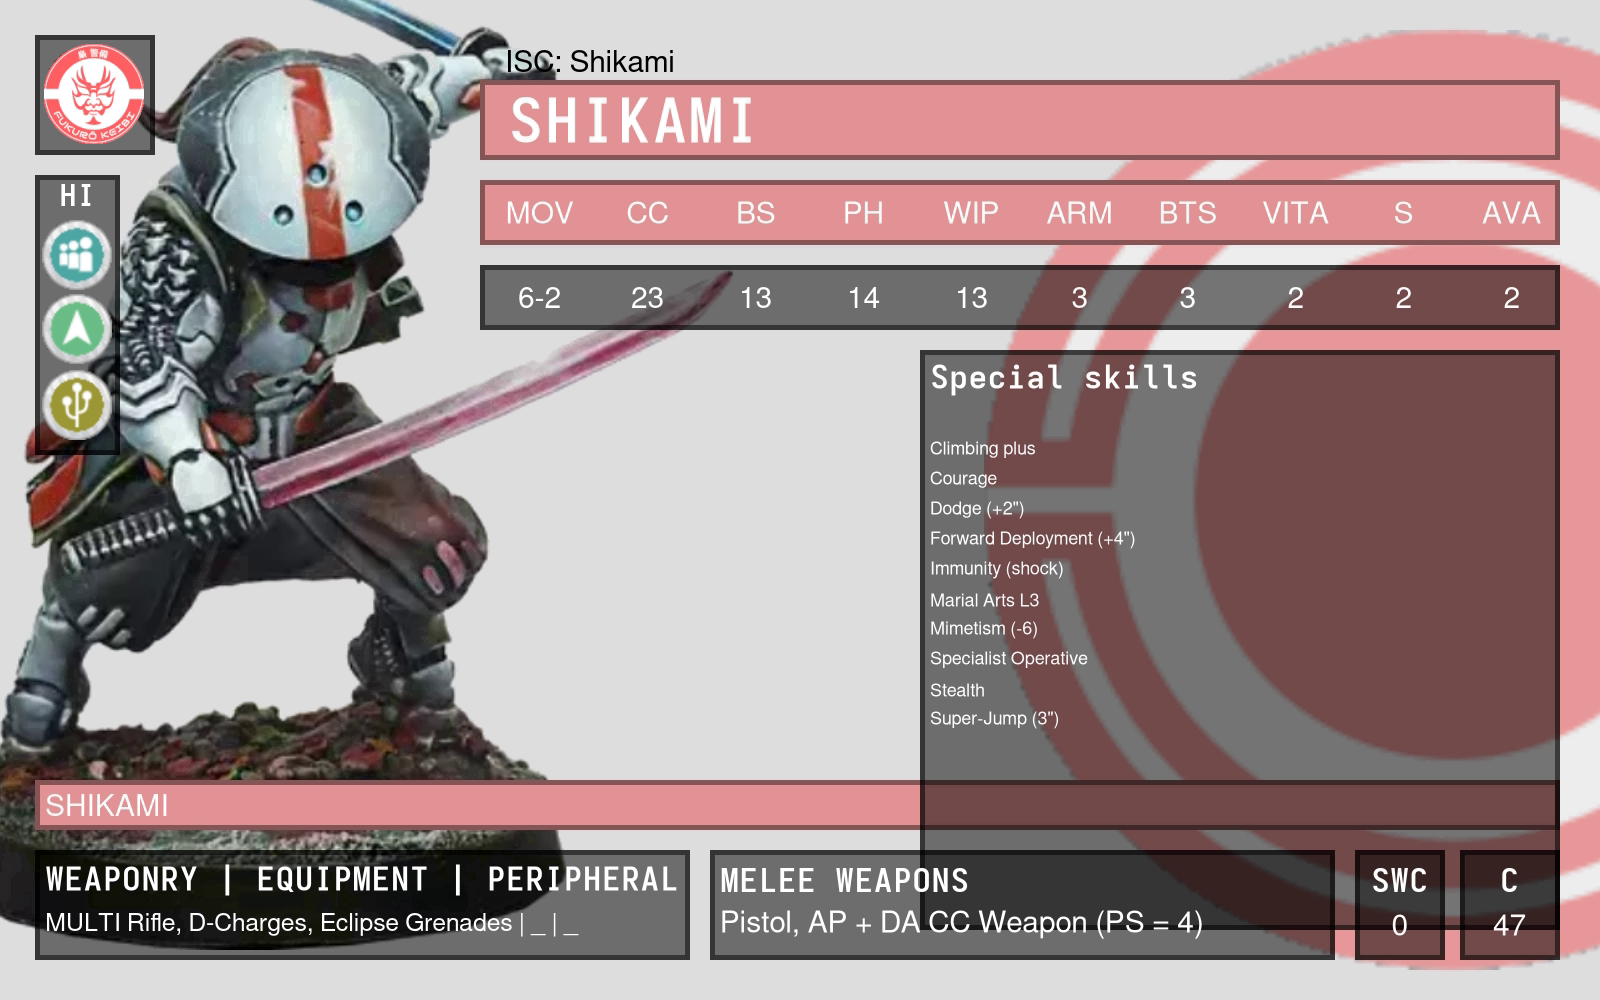
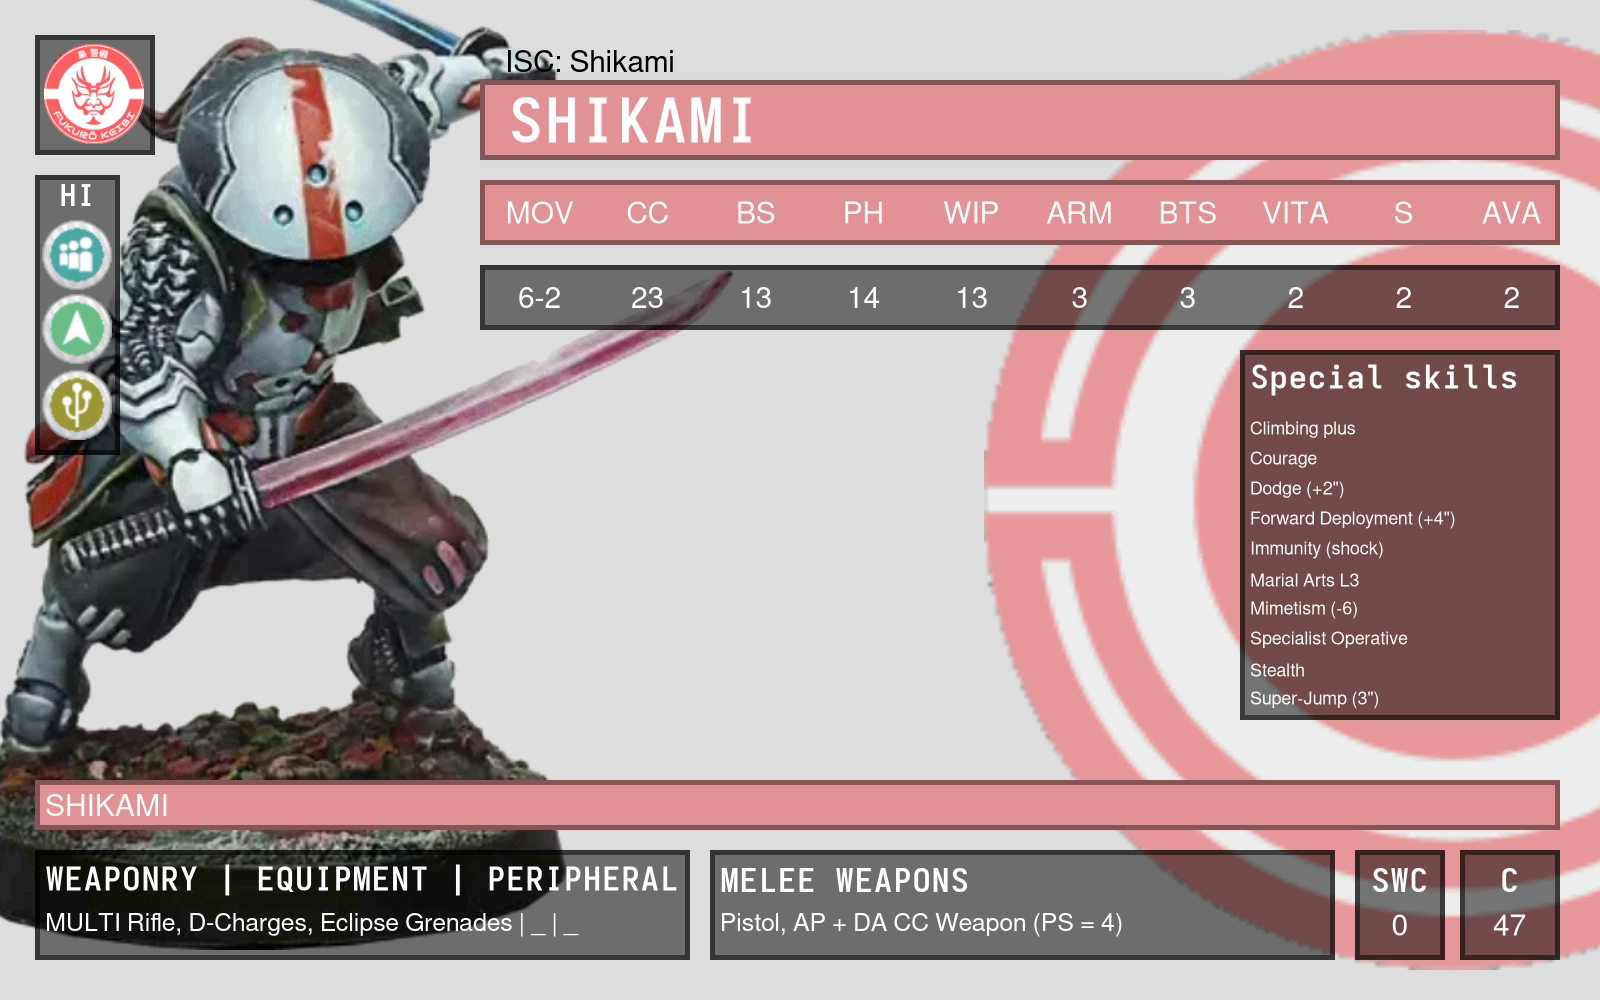
add to readme, tweak and (re)generate

Changed region(s): [[0.4375, 0.341, 1.0, 0.93]]

diff --git a/README.md b/README.md
@@ -3,7 +3,7 @@
 | Inspiration                                           | Mine                           |
 |-------------------------------------------------------|--------------------------------|
 | ![](assets/4fb8339e-3d5d-4f70-9e3e-3f76bb449dd4.jpeg) | ![](assets/panoceania-orc.png) |
-| ![](assets/c10788ac-cffd-4494-8f02-d7eaafcc30fa.jpeg) |                                |
+| ![](assets/c10788ac-cffd-4494-8f02-d7eaafcc30fa.jpeg) | ![](assets/jsa-shikami.png)    |
 | ![](assets/e3948ce6-e52d-4d15-be89-131ea8f03858.jpeg) |                                |
 
 > Sources:
